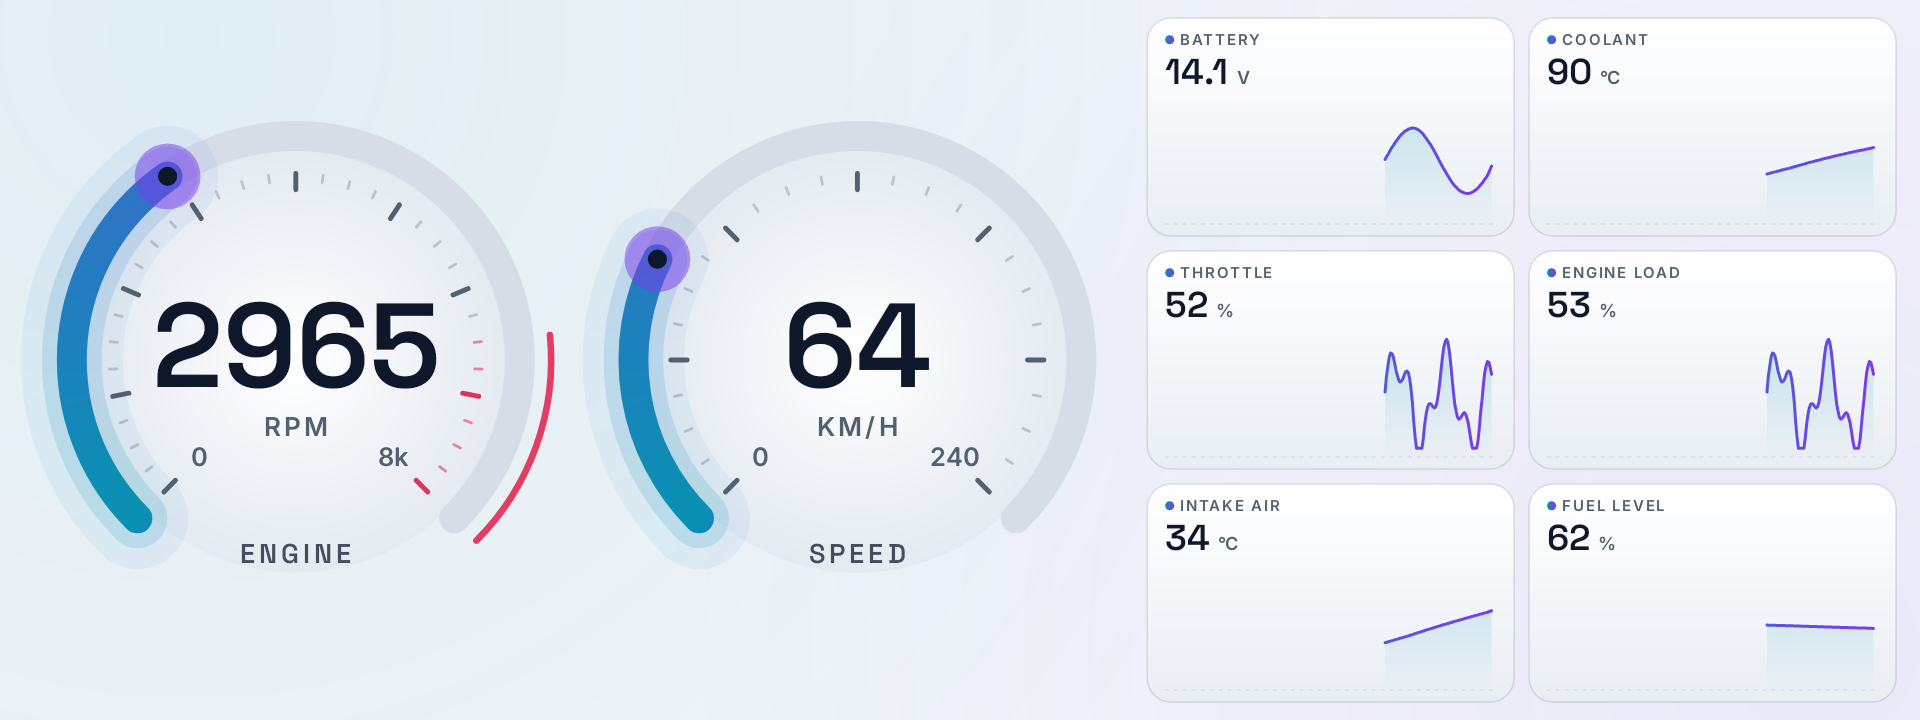
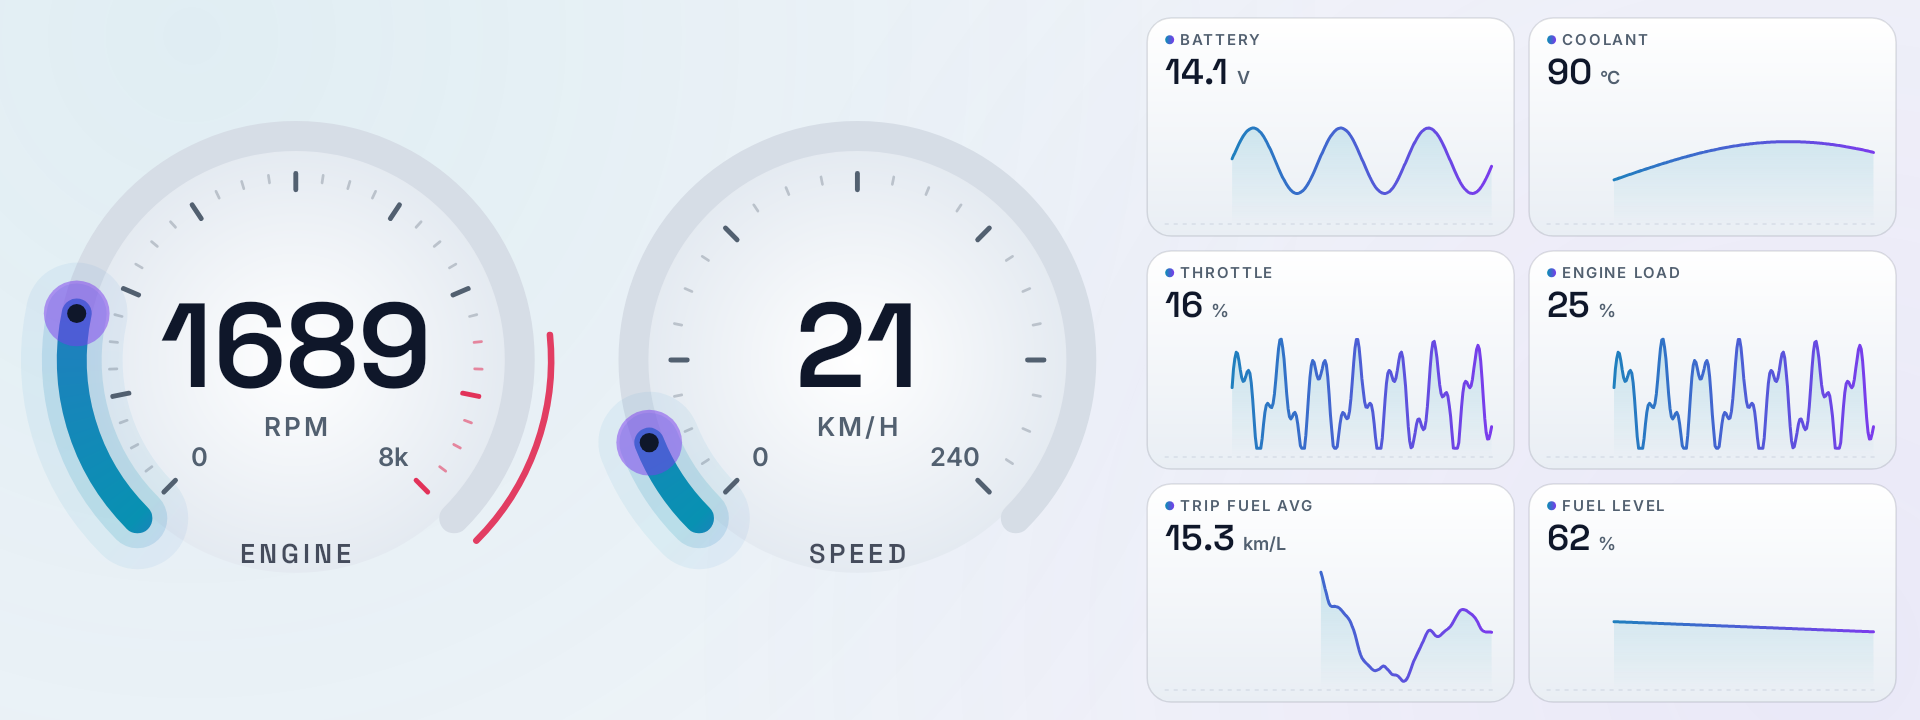
Update README screenshots for configurable Android Auto tiles
Re-render the Android Auto day/night shots with the trip fuel average
tile and add a phone screenshot of the Android Auto tiles picker.

diff --git a/README.md b/README.md
@@ -9,9 +9,12 @@ An Android dashboard for Bluetooth ELM327 OBD-II adapters, built with Kotlin and
   <img src="screenshots/phone_dashboard_demo.png" width="260" alt="Live dashboard with RPM and speed gauges and sensor tiles">
   <img src="screenshots/phone_home.png" width="260" alt="Start screen with connect card and paired adapters">
   <img src="screenshots/phone_profile_theme_setting.png" width="260" alt="Profile settings with units and Android Auto theme">
+  <img src="screenshots/phone_profile_car_tiles.png" width="260" alt="Android Auto tiles picker with six numbered tiles, including trip fuel average">
 </p>
 
 ### Android Auto
+The tiles shown here were picked under **Profile → Android Auto tiles**, with the trip fuel average in place of intake air.
+
 **Night**
 
 ![Android Auto dashboard, night theme](screenshots/android_auto_night.png)
